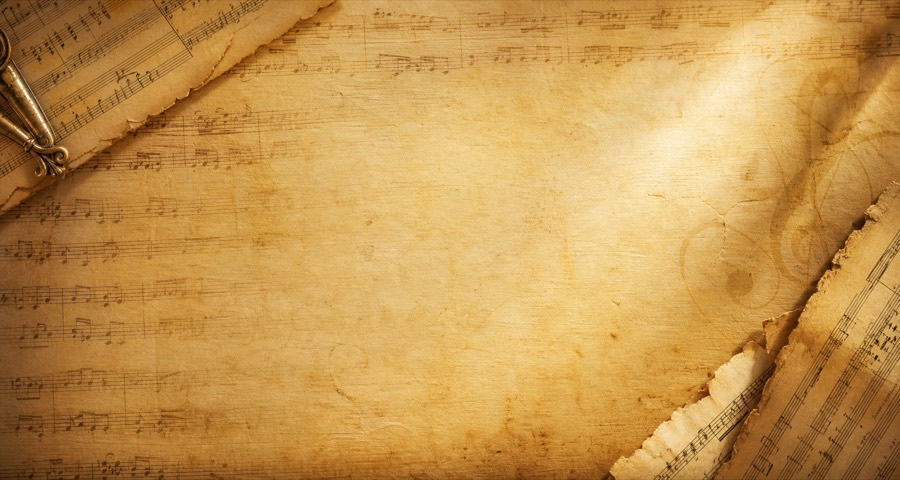
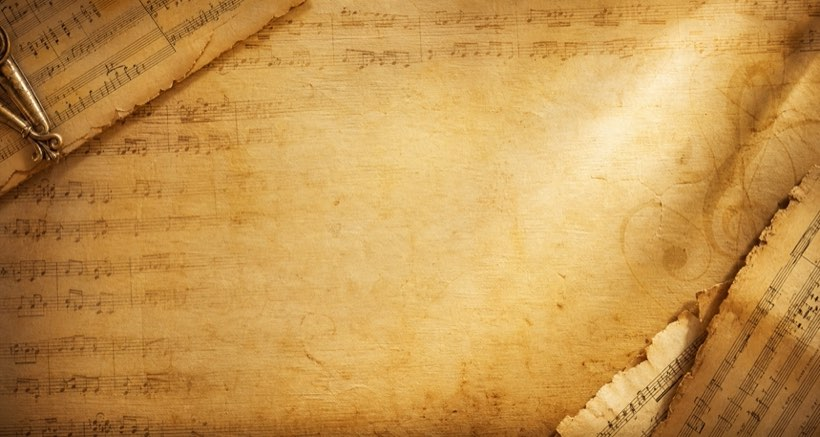
Corrige imagem do cabecalho mobile

diff --git a/index.html b/index.html
@@ -9,25 +9,14 @@
     <meta property="og:title" content="Magno Benhur Garcia | Links">
     <meta property="og:description" content="Aulas, ebooks, desafio e bandas em um só lugar.">
     <meta property="og:image" content="assets/magno.png">
-    <link rel="preload" as="image" href="assets/magno-hero-mobile.jpg" media="(max-width: 759px)" fetchpriority="high">
-    <link rel="preload" as="image" href="assets/magno.png" media="(min-width: 760px)" fetchpriority="high">
+    <link rel="preload" as="image" href="assets/magno.png" fetchpriority="high">
     <link rel="stylesheet" href="styles.css">
   </head>
   <body>
     <header class="hero-band">
       <div class="page-shell page-shell--hero">
         <section class="hero" aria-labelledby="profile-name">
-          <picture>
-            <source media="(max-width: 759px)" srcset="assets/magno-hero-mobile.jpg">
-            <img
-              class="hero__image"
-              src="assets/magno.png"
-              alt="Magno Benhur Garcia"
-              width="1080"
-              height="1080"
-              fetchpriority="high"
-              decoding="async">
-          </picture>
+          <img class="hero__image" src="assets/magno.png" alt="Magno Benhur Garcia" width="1080" height="1080" fetchpriority="high" decoding="async">
           <div class="hero__shade"></div>
           <div class="hero__content">
             <p class="eyebrow">Músico • Professor • Produtor</p>